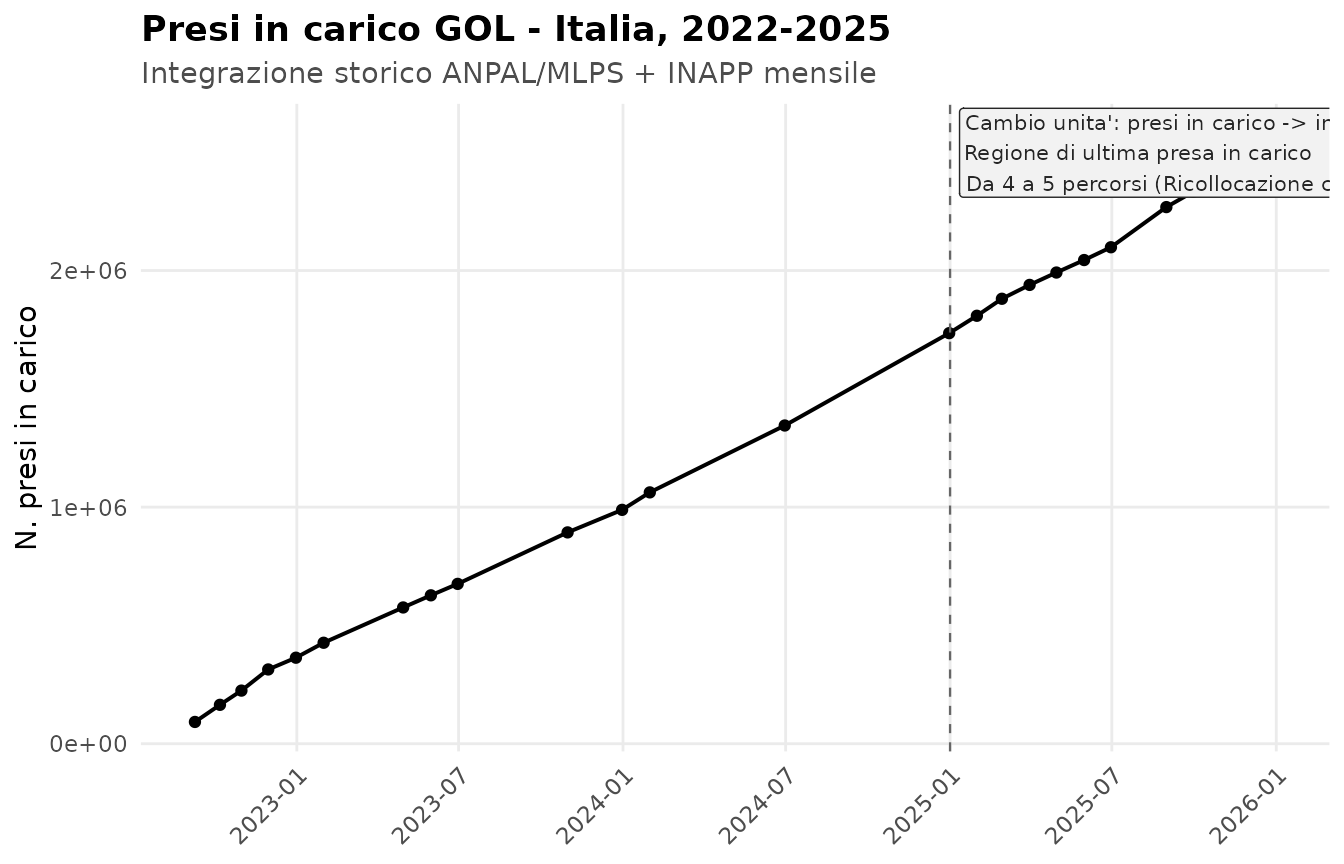
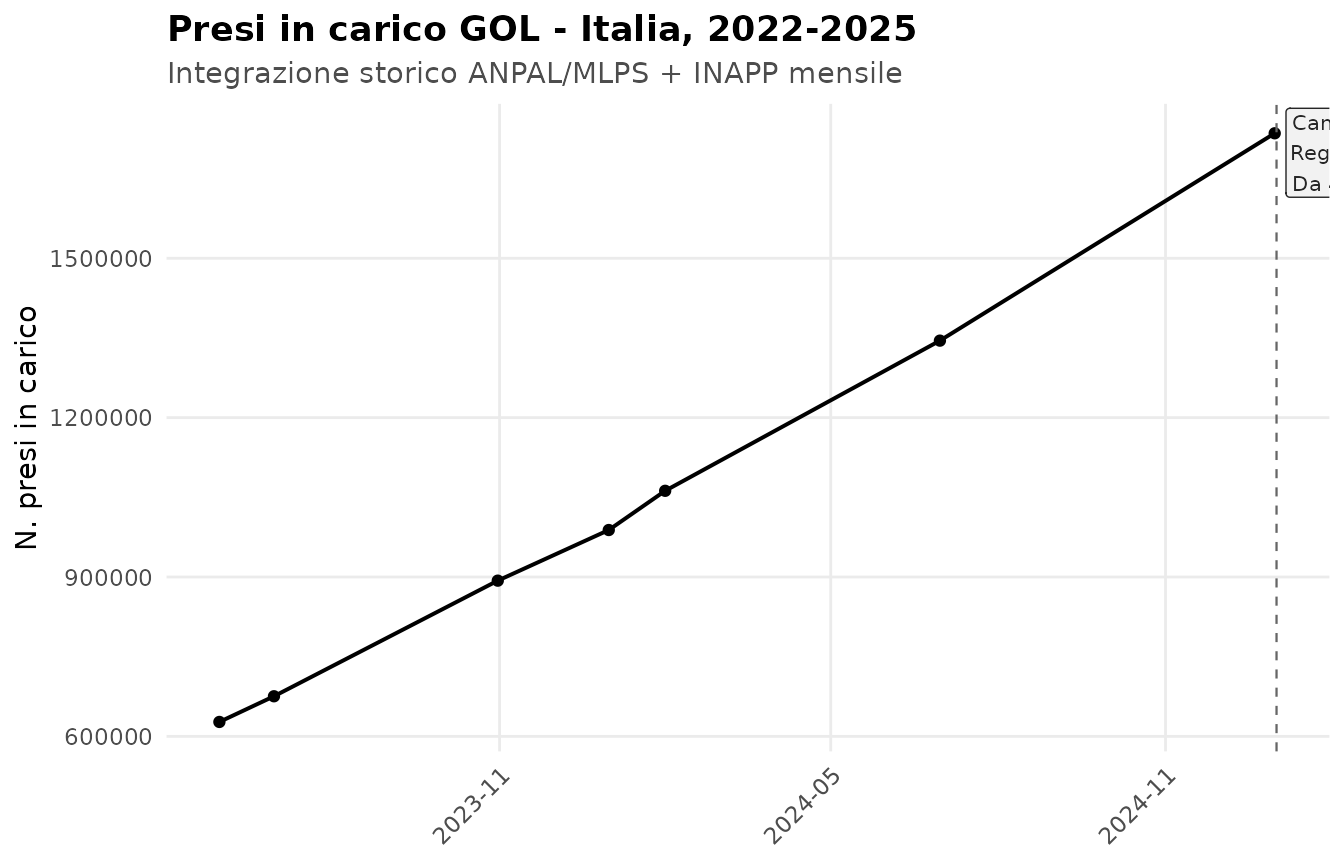
Deploying to gh-pages from @ gmontaletti/golDatasets@18229ed6e8360a7617b94f611e1e84856d5bcb3b 🚀

diff --git a/reference/gol_decode_storico.html b/reference/gol_decode_storico.html
@@ -78,19 +78,32 @@ indicato. Default <code>"low"</code> (tutte). Per analisi rigorose usare <code>"
     <div class="sourceCode"><pre class="sourceCode r"><code><span class="r-in"><span><span class="va">d</span> <span class="op">&lt;-</span> <span class="fu">gol_decode_storico</span><span class="op">(</span><span class="op">)</span></span></span>
 <span class="r-in"><span><span class="va">d</span><span class="op">[</span><span class="va">tema</span> <span class="op">==</span> <span class="st">"A1"</span> <span class="op">&amp;</span> <span class="va">confidenza</span> <span class="op">==</span> <span class="st">"high"</span>,</span></span>
 <span class="r-in"><span>  <span class="fu">.</span><span class="op">(</span><span class="va">data_riferimento</span>, <span class="va">anchor</span>, <span class="va">variabile</span>, <span class="va">percorso</span>, <span class="va">valore_num</span><span class="op">)</span><span class="op">]</span></span></span>
-<span class="r-out co"><span class="r-pr">#&gt;</span>      data_riferimento         anchor              variabile percorso valore_num</span>
-<span class="r-out co"><span class="r-pr">#&gt;</span>                &lt;IDat&gt;         &lt;char&gt;                 &lt;char&gt;   &lt;char&gt;      &lt;num&gt;</span>
-<span class="r-out co"><span class="r-pr">#&gt;</span>   1:       2022-12-31        Abruzzo presi_in_carico_totale     &lt;NA&gt;       5165</span>
-<span class="r-out co"><span class="r-pr">#&gt;</span>   2:       2022-12-31     Basilicata presi_in_carico_totale     &lt;NA&gt;       2450</span>
-<span class="r-out co"><span class="r-pr">#&gt;</span>   3:       2022-12-31       Calabria presi_in_carico_totale     &lt;NA&gt;       9707</span>
-<span class="r-out co"><span class="r-pr">#&gt;</span>   4:       2022-12-31       Campania presi_in_carico_totale     &lt;NA&gt;      38127</span>
-<span class="r-out co"><span class="r-pr">#&gt;</span>   5:       2022-12-31 Emilia-Romagna presi_in_carico_totale     &lt;NA&gt;      28071</span>
-<span class="r-out co"><span class="r-pr">#&gt;</span>  ---                                                                           </span>
-<span class="r-out co"><span class="r-pr">#&gt;</span> 583:       2025-01-31        Toscana presi_in_carico_totale     &lt;NA&gt;     161588</span>
-<span class="r-out co"><span class="r-pr">#&gt;</span> 584:       2025-01-31         Totale presi_in_carico_totale     &lt;NA&gt;    1808684</span>
-<span class="r-out co"><span class="r-pr">#&gt;</span> 585:       2025-01-31         Umbria presi_in_carico_totale     &lt;NA&gt;      38794</span>
-<span class="r-out co"><span class="r-pr">#&gt;</span> 586:       2025-01-31  Valle d'Aosta presi_in_carico_totale     &lt;NA&gt;       2859</span>
-<span class="r-out co"><span class="r-pr">#&gt;</span> 587:       2025-01-31         Veneto presi_in_carico_totale     &lt;NA&gt;     132480</span>
+<span class="r-out co"><span class="r-pr">#&gt;</span>       data_riferimento  anchor           variabile</span>
+<span class="r-out co"><span class="r-pr">#&gt;</span>                 &lt;IDat&gt;  &lt;char&gt;              &lt;char&gt;</span>
+<span class="r-out co"><span class="r-pr">#&gt;</span>    1:       2022-12-31 Abruzzo presi_in_carico_ass</span>
+<span class="r-out co"><span class="r-pr">#&gt;</span>    2:       2022-12-31 Abruzzo presi_in_carico_ass</span>
+<span class="r-out co"><span class="r-pr">#&gt;</span>    3:       2022-12-31 Abruzzo presi_in_carico_ass</span>
+<span class="r-out co"><span class="r-pr">#&gt;</span>    4:       2022-12-31 Abruzzo  presi_in_carico_pc</span>
+<span class="r-out co"><span class="r-pr">#&gt;</span>    5:       2022-12-31 Abruzzo  presi_in_carico_pc</span>
+<span class="r-out co"><span class="r-pr">#&gt;</span>   ---                                             </span>
+<span class="r-out co"><span class="r-pr">#&gt;</span> 3847:       2025-01-31  Veneto  presi_in_carico_pc</span>
+<span class="r-out co"><span class="r-pr">#&gt;</span> 3848:       2025-01-31  Veneto presi_in_carico_ass</span>
+<span class="r-out co"><span class="r-pr">#&gt;</span> 3849:       2025-01-31  Veneto  presi_in_carico_pc</span>
+<span class="r-out co"><span class="r-pr">#&gt;</span> 3850:       2025-01-31  Veneto presi_in_carico_ass</span>
+<span class="r-out co"><span class="r-pr">#&gt;</span> 3851:       2025-01-31  Veneto  presi_in_carico_pc</span>
+<span class="r-out co"><span class="r-pr">#&gt;</span>                            percorso valore_num</span>
+<span class="r-out co"><span class="r-pr">#&gt;</span>                              &lt;char&gt;      &lt;num&gt;</span>
+<span class="r-out co"><span class="r-pr">#&gt;</span>    1:    1_reinserimento_lavorativo     5165.0</span>
+<span class="r-out co"><span class="r-pr">#&gt;</span>    2: 3_riqualificazione_reskilling     1729.0</span>
+<span class="r-out co"><span class="r-pr">#&gt;</span>    3:           4_lavoro_inclusione      260.0</span>
+<span class="r-out co"><span class="r-pr">#&gt;</span>    4:    1_reinserimento_lavorativo       51.8</span>
+<span class="r-out co"><span class="r-pr">#&gt;</span>    5:    2_aggiornamento_upskilling       28.2</span>
+<span class="r-out co"><span class="r-pr">#&gt;</span>   ---                                         </span>
+<span class="r-out co"><span class="r-pr">#&gt;</span> 3847: 3_riqualificazione_reskilling       48.5</span>
+<span class="r-out co"><span class="r-pr">#&gt;</span> 3848:           4_lavoro_inclusione       41.5</span>
+<span class="r-out co"><span class="r-pr">#&gt;</span> 3849:           4_lavoro_inclusione        6.7</span>
+<span class="r-out co"><span class="r-pr">#&gt;</span> 3850:   5_ricollocazione_collettiva        3.1</span>
+<span class="r-out co"><span class="r-pr">#&gt;</span> 3851:   5_ricollocazione_collettiva        0.2</span>
 <span class="r-in"><span></span></span>
 </code></pre></div>
     </div>

diff --git a/articles/merge-gol-cob.html b/articles/merge-gol-cob.html
@@ -471,7 +471,7 @@ del lavoro regionale.</p>
 <span><span class="co">#&gt;  $ yoy_avviamenti       : num NA</span></span>
 <span><span class="co">#&gt;  $ yoy_cessazioni       : num NA</span></span>
 <span><span class="co">#&gt;  $ yoy_saldo            : num NA</span></span>
-<span><span class="co">#&gt;  - attr(*, ".internal.selfref")=&lt;pointer: 0x562d3a24d010&gt; </span></span>
+<span><span class="co">#&gt;  - attr(*, ".internal.selfref")=&lt;pointer: 0x55e09a0ce010&gt; </span></span>
 <span><span class="co">#&gt;  - attr(*, "sorted")= chr [1:3] "regione" "anno" "trimestre"</span></span></code></pre></div>
 <p>Estrazione tipica: indice di rotazione
 (<code>rapporti / lavoratori</code>) per gli avviamenti.</p>

diff --git a/reference/gol_decode_storico.md b/reference/gol_decode_storico.md
@@ -33,17 +33,30 @@ Un `data.table` con le colonne originali piu' quelle semantiche.
 d <- gol_decode_storico()
 d[tema == "A1" & confidenza == "high",
   .(data_riferimento, anchor, variabile, percorso, valore_num)]
-#>      data_riferimento         anchor              variabile percorso valore_num
-#>                <IDat>         <char>                 <char>   <char>      <num>
-#>   1:       2022-12-31        Abruzzo presi_in_carico_totale     <NA>       5165
-#>   2:       2022-12-31     Basilicata presi_in_carico_totale     <NA>       2450
-#>   3:       2022-12-31       Calabria presi_in_carico_totale     <NA>       9707
-#>   4:       2022-12-31       Campania presi_in_carico_totale     <NA>      38127
-#>   5:       2022-12-31 Emilia-Romagna presi_in_carico_totale     <NA>      28071
-#>  ---                                                                           
-#> 583:       2025-01-31        Toscana presi_in_carico_totale     <NA>     161588
-#> 584:       2025-01-31         Totale presi_in_carico_totale     <NA>    1808684
-#> 585:       2025-01-31         Umbria presi_in_carico_totale     <NA>      38794
-#> 586:       2025-01-31  Valle d'Aosta presi_in_carico_totale     <NA>       2859
-#> 587:       2025-01-31         Veneto presi_in_carico_totale     <NA>     132480
+#>       data_riferimento  anchor           variabile
+#>                 <IDat>  <char>              <char>
+#>    1:       2022-12-31 Abruzzo presi_in_carico_ass
+#>    2:       2022-12-31 Abruzzo presi_in_carico_ass
+#>    3:       2022-12-31 Abruzzo presi_in_carico_ass
+#>    4:       2022-12-31 Abruzzo  presi_in_carico_pc
+#>    5:       2022-12-31 Abruzzo  presi_in_carico_pc
+#>   ---                                             
+#> 3847:       2025-01-31  Veneto  presi_in_carico_pc
+#> 3848:       2025-01-31  Veneto presi_in_carico_ass
+#> 3849:       2025-01-31  Veneto  presi_in_carico_pc
+#> 3850:       2025-01-31  Veneto presi_in_carico_ass
+#> 3851:       2025-01-31  Veneto  presi_in_carico_pc
+#>                            percorso valore_num
+#>                              <char>      <num>
+#>    1:    1_reinserimento_lavorativo     5165.0
+#>    2: 3_riqualificazione_reskilling     1729.0
+#>    3:           4_lavoro_inclusione      260.0
+#>    4:    1_reinserimento_lavorativo       51.8
+#>    5:    2_aggiornamento_upskilling       28.2
+#>   ---                                         
+#> 3847: 3_riqualificazione_reskilling       48.5
+#> 3848:           4_lavoro_inclusione       41.5
+#> 3849:           4_lavoro_inclusione        6.7
+#> 3850:   5_ricollocazione_collettiva        3.1
+#> 3851:   5_ricollocazione_collettiva        0.2
 ```

diff --git a/articles/merge-gol-cob.md b/articles/merge-gol-cob.md
@@ -459,7 +459,7 @@ str(ind[1])
 #>  $ yoy_avviamenti       : num NA
 #>  $ yoy_cessazioni       : num NA
 #>  $ yoy_saldo            : num NA
-#>  - attr(*, ".internal.selfref")=<pointer: 0x562d3a24d010> 
+#>  - attr(*, ".internal.selfref")=<pointer: 0x55e09a0ce010> 
 #>  - attr(*, "sorted")= chr [1:3] "regione" "anno" "trimestre"
 ```
 